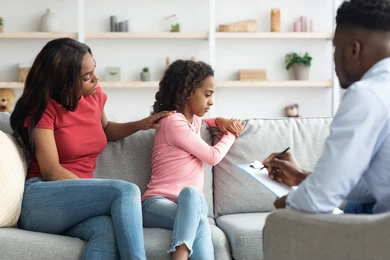
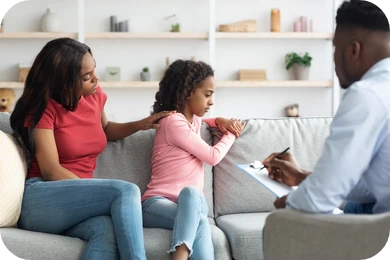
mental health with pictures

diff --git a/lectures/mental-health.html b/lectures/mental-health.html
@@ -211,6 +211,18 @@
               <li>Measurable productivity</li>
               <li>Qualitative contribution to society</li>
             </ol>
+
+            <h4>A mentally healthy person</h4>
+            <ul>
+              <li>Can think clearly</li>
+              <li>Can enjoy good relationships with others</li>
+              <li>Can cope with the normal stresses of life and solve problems</li>
+              <li>Can work productively and make contributions to the community</li>
+            </ul>
+            
+            <p><strong>Mental health is vital for individuals, families, and communities.</strong></p>
+            <p><strong>To be a healthy person, we need to have both mental and physical health.</strong></p>
+            
             
             <h4>Mental Capital</h4>
             <p>The totality of a person’s cognitive emotional resources:</p>
@@ -234,7 +246,7 @@
 
                         <!-- image here -->
                         <div class="image-container">
-                            <img src="../figures/" alt="" onclick="openModal(this)">
+                            <img src="../figures/mental-health (1).png" alt="" onclick="openModal(this)">
                             <div class="caption">Dimensions of mental well-being</div>
                           </div>
                           
@@ -246,7 +258,7 @@
 
                                       <!-- image here -->
             <div class="image-container">
-                <img src="../figures/" alt="" onclick="openModal(this)">
+                <img src="../figures/mental-health (1).jpg" alt="" onclick="openModal(this)">
                 <div class="caption">No health without mental health</div>
               </div>
               
@@ -258,7 +270,7 @@
 
                           <!-- image here -->
             <div class="image-container">
-                <img src="../figures/" alt="" onclick="openModal(this)">
+                <img src="../figures/mental-health (2).jpg" alt="" onclick="openModal(this)">
                 <div class="caption">Dual continuum of mental health  </div>
               </div>
               
@@ -267,6 +279,13 @@
                 <img class="modal-content" id="modalImage">
                 <div id="caption" class="caption">Dual continuum of mental health  </div>
               </div>
+
+              <h4>Determinants of mental well-being are not the same as determinants of mental illness (Huppert 2008)</h4>
+
+              <p>Absence of mental illness does not necessarily imply the presence of high levels of positive mental health.</p>
+              
+              <p>People with mental health problems may also have positive mental health.</p>
+              
         </div>
       </section>
 
@@ -281,13 +300,19 @@
             <ul>
               <li>Is very common</li>
               <li>Can affect anybody</li>
+              <ul>
+                <li>Affects 1 in 5 people</li>
+                <li>Can affect males or females, poor or rich, educated or not.</li>
+                <li>It affects quality of life.</li> 
+              </ul>
               <li>Causes great suffering and disability</li>
               <li>Places a great burden on every society</li>
               <li>Can be treated cheaply and easily</li>
               <li>Does not stop a person from having a good life or supporting their family.</li>
             </ul>
+
             
-            <h4>What is a mental disorder?</h4>
+            <li>What is a mental disorder?</h4>
             <p>The mind of a person (the emotions, the thinking) can fall ill just as the physical body.</p>
             <ul>
               <li>A mental disorder is a real medical illness</li>
@@ -301,6 +326,17 @@
               <li>Distress to significant others</li>
               <li>Distress to society</li>
             </ul>
+            <p>A behavioral or psychological syndrome that is associated with distress or disability, associated with a risk of incurring death, pain, or disability; it is not culturally appropriate. It is a manifestation of dysfunction in the individual.</p>
+
+            <p>It also causes</p>
+            <ul>
+              <li>Disturbances in perception, beliefs, thought processes, and mood (psychoses)</li>
+              <li>Disturbances in mood, concentration, irritability, fatigue (neuroses or common mental disorders)</li>
+              <li>Progressive organic disease of the brain (dementias)</li>
+              <li>Abnormal personality traits which are handicapping to the individual and/or to others (Personality disorders)</li>
+              <li>Excess consumption and dependency on alcohol, drugs, and tobacco</li>
+            </ul>
+            
 
             <h4>Types & Prevalence in general population</h4>
             <ul>
@@ -337,10 +373,7 @@
               <li>Irritability</li>
               <li>Low libido</li>
               <li>Obsessional thoughts and actions</li>
-            </ul>
-            
-            <h4>Signs & symptoms 2</h4>
-            <ul>
+
               <li>Worrying about things a lot</li>
               <li>Feeling something terrible is going to happen</li>
               <li>Feeling scared</li>
@@ -357,6 +390,7 @@
             <p>Factors that increase the probability of developing a disease, health condition, or social problem.</p>
             <p>May be associated with the increased probability of early onset, greater severity, and longer duration of major health and mental health problems.</p>
             
+
             <ul>
               <li><b>Social:</b> life events, chronic adversity, poor social support, poor relationships, isolation, poverty</li>
               <li><b>Physical:</b> Chemical imbalance, genetic, endocrine abnormality, nutrition, infection</li>
@@ -378,6 +412,54 @@
               <li>Having good physical health</li>
               <li>Having good coping strategies</li>
             </ul>
+            <!-- image here -->
+            <div class="image-container">
+              <img src="../figures/mental-health (3).jpg" alt="" onclick="openModal(this)">
+              <div class="caption">Biopsychosocial Framework</div>
+            </div>
+            
+            <div id="myModal" class="modal">
+              <span class="close" onclick="closeModal()">&times;</span>
+              <img class="modal-content" id="modalImage">
+              <div id="caption" class="caption">Biopsychosocial Framework</div>
+            </div>
+
+            <p>In the BPS (Biopsychosocial) approach, culture’s influence on mental health stems from an interaction of biological, cognitive, and affective factors in our social interactions (Mio, Barker-Hackett, & Tumambing, 2006).</p>
+
+
+                        <!-- image here -->
+                        <div class="image-container">
+                          <img src="../figures/mental-health (4).jpg" alt="" onclick="openModal(this)">
+                          <div class="caption">Stress</div>
+                        </div>
+                        
+                        <div id="myModal" class="modal">
+                          <span class="close" onclick="closeModal()">&times;</span>
+                          <img class="modal-content" id="modalImage">
+                          <div id="caption" class="caption">Stress</div>
+                        </div>
+
+                                    <!-- image here -->
+            <div class="image-container">
+              <img src="../figures/mental-health (2).png" alt="" onclick="openModal(this)">
+              <div class="caption">Stress Cycle</div>
+            </div>
+            
+            <div id="myModal" class="modal">
+              <span class="close" onclick="closeModal()">&times;</span>
+              <img class="modal-content" id="modalImage">
+              <div id="caption" class="caption">Stress Cycle</div>
+            </div>
+        <p>Social stressors play an important role in the development of mental disorders.</p>
+
+            <h4>Note-The 5 Ps:</h4>
+            <ol>
+              <li><strong>Presenting Complaints:</strong> The specific issues or problems that bring an individual to seek help or treatment.</li>
+              <li><strong>Precipitating Factors:</strong> Events or circumstances that trigger or contribute to the development of a mental health issue or exacerbate an existing condition.</li>
+              <li><strong>Predisposing Factors:</strong> Pre-existing factors, such as genetics, early life experiences, or personality traits, that make an individual more susceptible to mental health challenges.</li>
+              <li><strong>Perpetuating Factors:</strong> Ongoing elements or behaviors that maintain or worsen a mental health issue over time.</li>
+              <li><strong>Protective Factors:</strong> Factors that enhance resilience and help prevent or mitigate the impact of mental health challenges. These may include support systems, coping skills, or positive life experiences.</li>
+            </ol>
             
             <h4>Consequences of mental illness</h4>
             <ul>
@@ -433,6 +515,10 @@
 
             <h4>What is Culture?</h4>
             <p>The set of distinctive, spiritual, material, intellectual, and emotional features of society or a social group. It encompasses, in addition to art and literature, lifestyles, ways of living together, value systems, traditions, and beliefs. (UNESCO, 2002)</p>
+            <h4>Culture is a configuration of learned behaviors and results of behavior whose component elements are shared and transmitted by the members of a particular society. (Linton, 1945, p. 32)</h4>
+
+            <p>It includes ethnicity, race, religion, age, sex, family values, the region of the country, and many other features. It can also include similar physical characteristics (e.g., skin color), psychological characteristics (e.g., levels of hostility), and common superficial features (e.g., hair style and clothing).</p>
+            
             
             <h4>Culture and mental health/illness</h4>
             <p>Culture contributes:</p>
@@ -515,15 +601,12 @@
             <h5>Social interventions:</h5>
             <p>Social interventions include those relating to addressing social adversity, e.g., provision of social support, housing, employment, economic development, improving interpersonal skills, etc.</p>
 
-            <p>Strengthening individuals:</p>
+            <p>Strengthening individuals and strengthening communities:</p>
             <ul>
-              <li>Reduce risk factors/increase protective factors</li>
+              <li>Reduce risk factors/increase protective factors, thereby reducing structural barriers to mental health</li>
             </ul>
             
-            <p>Strengthening communities:</p>
-            <ul>
-              <li>Reduce structural barriers to mental health</li>
-            </ul>
+ 
             
             <h4>Why is mental health important?</h4>
             <ul>
@@ -600,6 +683,17 @@
             
             <p>In most cases, even those with long-term conditions can be supported to live a quality life and lead full & productive lives including employment.</p>
             
+                        <!-- image here -->
+                        <div class="image-container">
+                          <img src="../figures/" alt="" onclick="openModal(this)">
+                          <div class="caption">Ripple effect of good mental health</div>
+                        </div>
+                        
+                        <div id="myModal" class="modal">
+                          <span class="close" onclick="closeModal()">&times;</span>
+                          <img class="modal-content" id="modalImage">
+                          <div id="caption" class="caption">Ripple effect of good mental health</div>
+                        </div>
         </div>
       </section>
 
